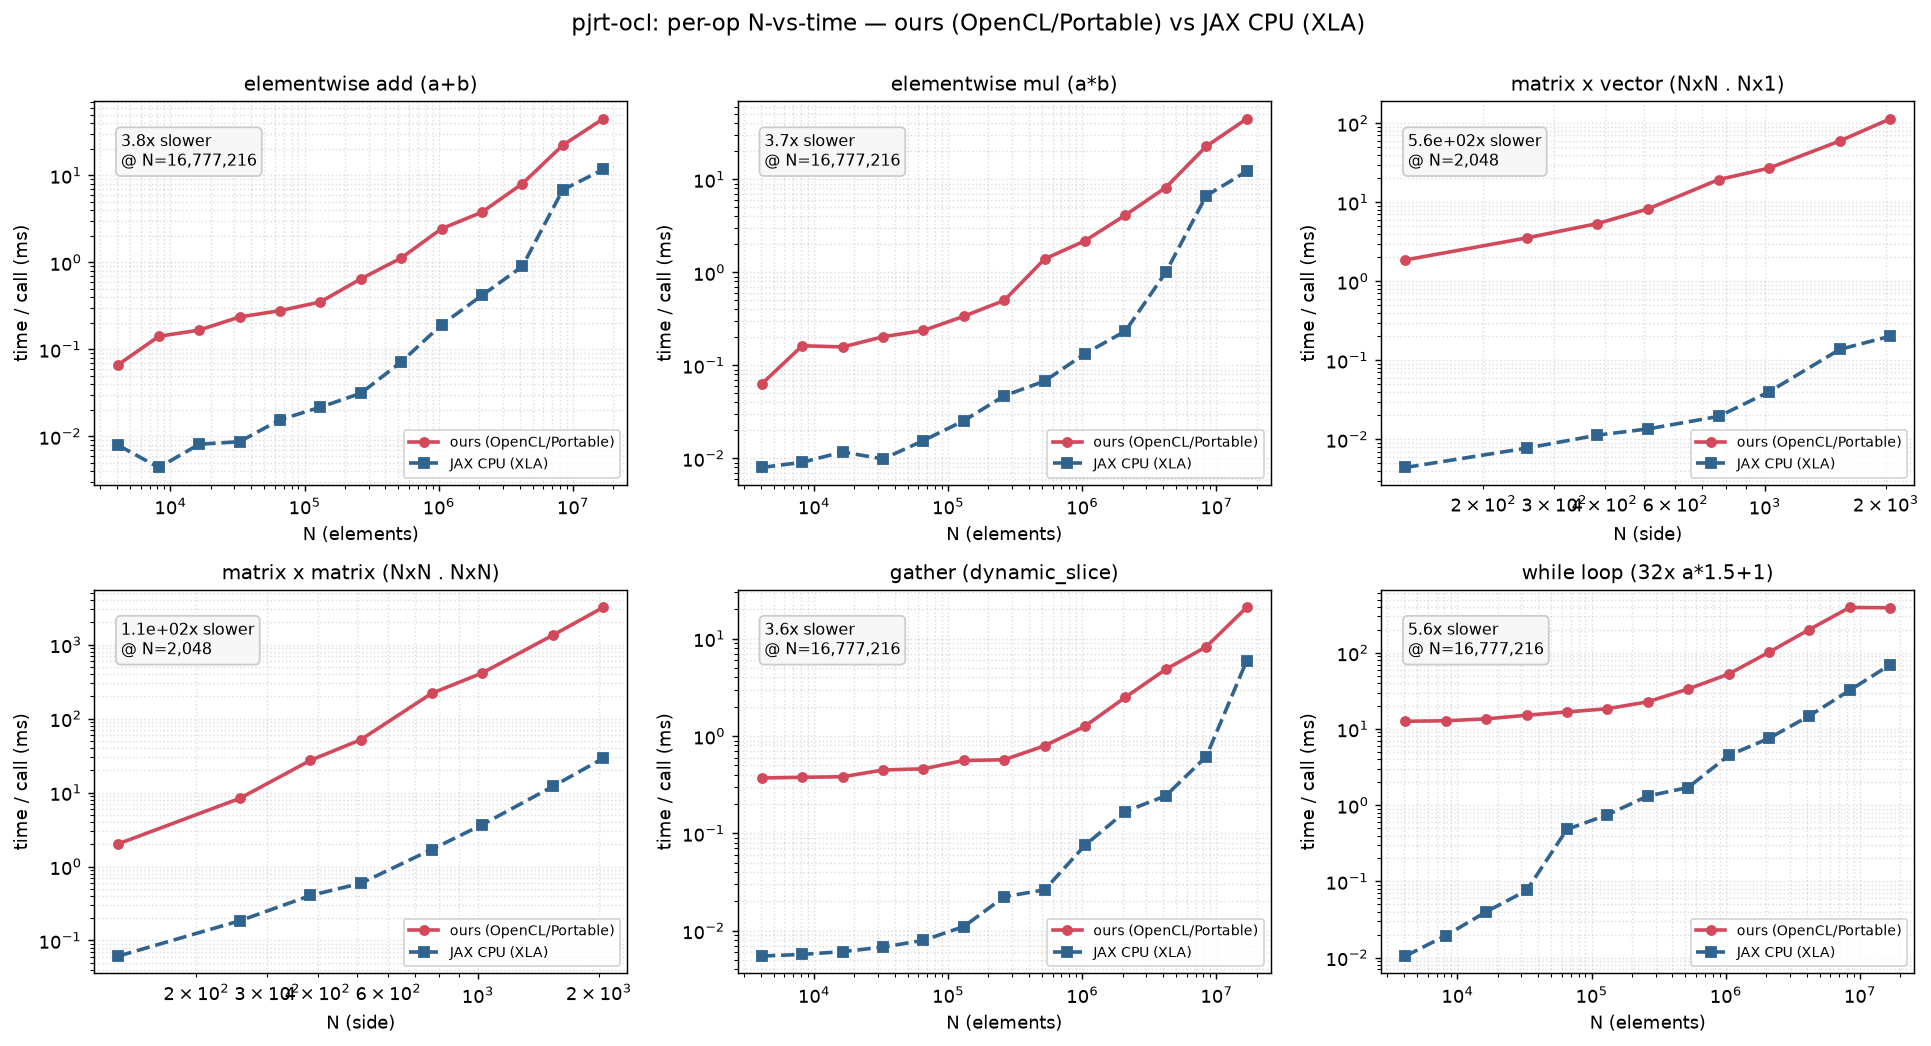
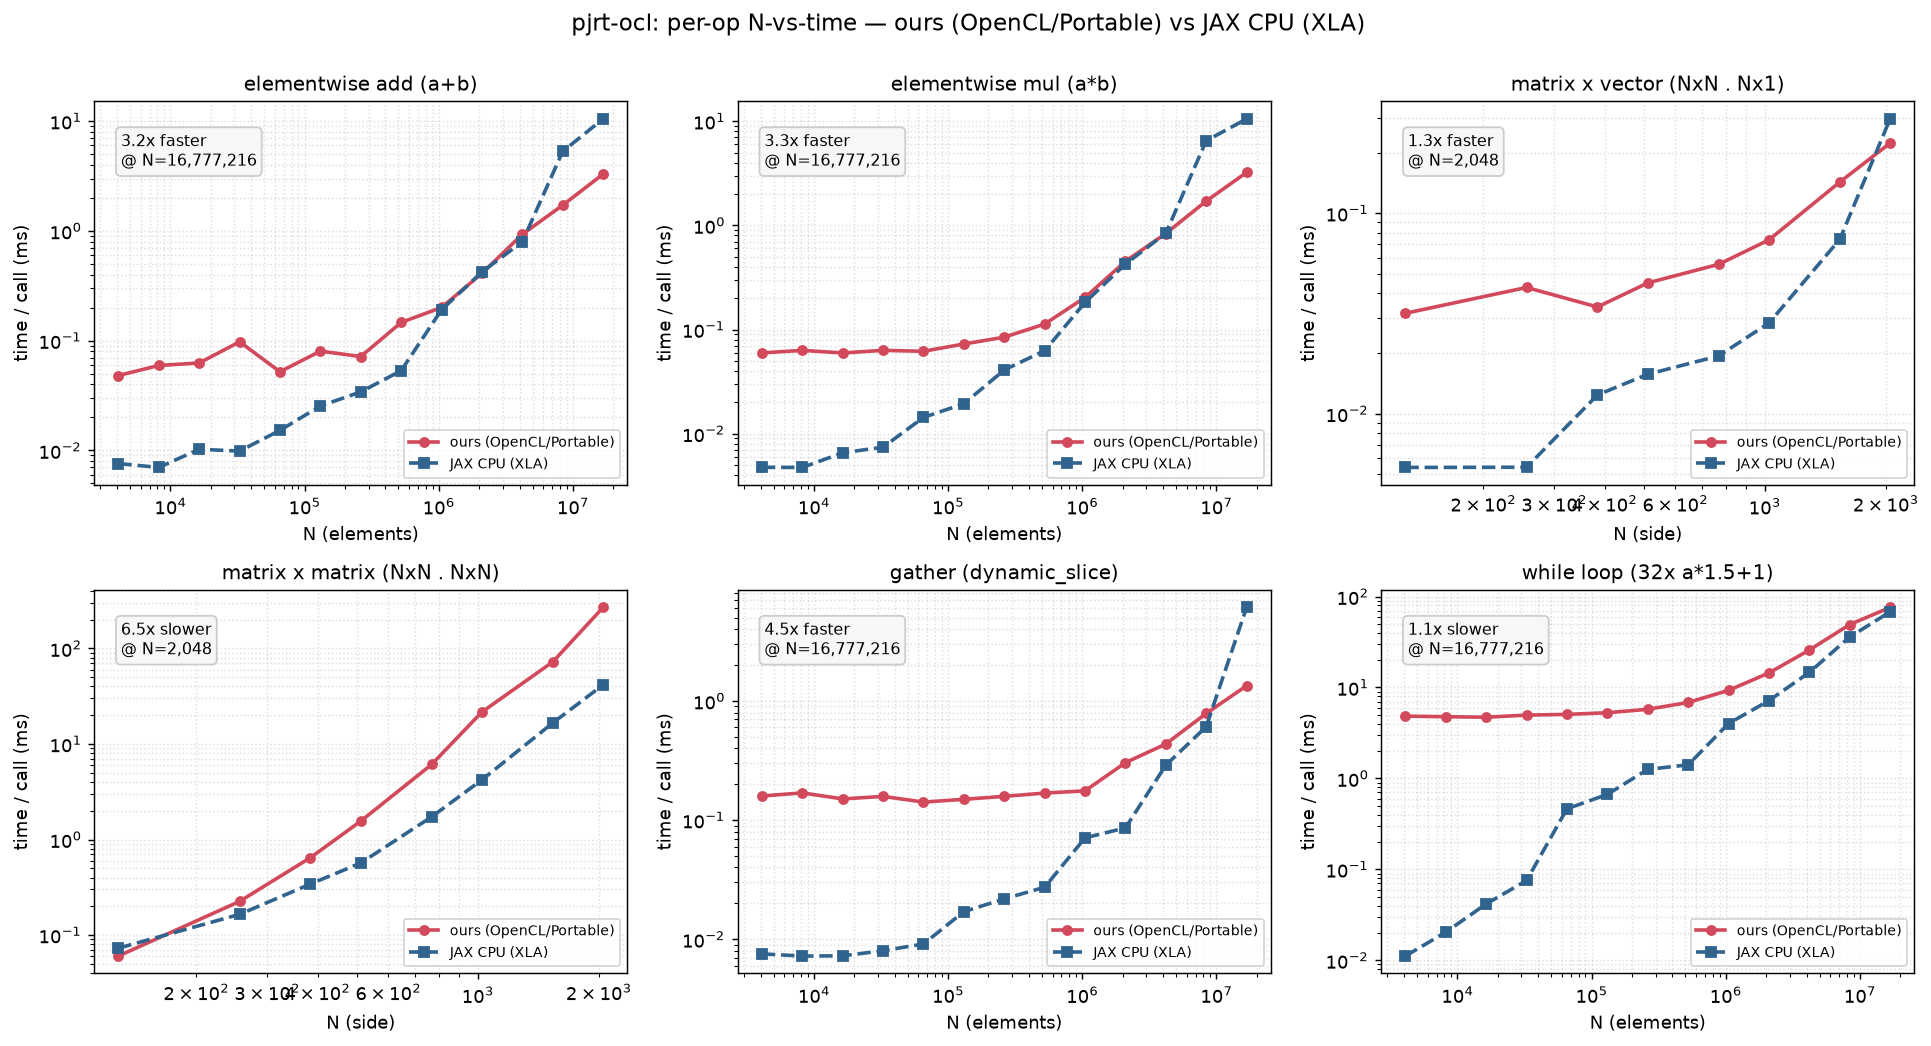
docs: re-bench both backends after CPU perf work; refresh hardware section
PoCL vs native XLA CPU at 16M: elementwise 3.2x FASTER, dynamic_slice 4.5x
faster, while/matvec parity; matmul 6.5x behind (was 88x). CPU-vs-GPU
subsection updated: backends converge on streaming (iGPU ~1.7x), matmul
still 18x GPU. Xe2 subsection: gemv parity for matvec, updated crossovers.

diff --git a/README.md b/README.md
@@ -190,19 +190,19 @@ it's the alternative you'd actually use.
 ![ours (OpenCL/Xe2) vs JAX CPU, per-op N-vs-time](docs/bench_plot_xe2.png)
 
 - **Large arrays are where the iGPU pays off, and the gap grows with N**:
-  elementwise and `gather` at 16M run **~8–9x faster** than XLA CPU
+  elementwise and `gather` at 16M run **~6–8x faster** than XLA CPU
   (~100 GB/s effective — the zero-copy I/O ports matter doubly on an
   integrated GPU, where "device memory" is the same LPDDR5X). Crossover vs
-  XLA CPU: ~512K–1M elements for elementwise, ~4M for `gather`, ~64K for the
-  `while` loop. `dot_general` is faster at *every* size — ~1.1 TFLOP/s at
-  2048³ via the standalone SGEMM path, ~2.4x XLA CPU.
+  XLA CPU: ~2M elements for elementwise, ~4M for `gather`, ~256K for the
+  `while` loop. `dot_general` is faster from N≈256 up — ~1.1 TFLOP/s at
+  2048³ via the standalone SGEMM path, ~2.8x XLA CPU. `matrix × vector` is
+  at parity at 2048 via the dedicated `gemv` kernel.
 - **`while` loops**: ~23 µs/iteration overhead at small N (the affine-fold +
-  in-place-carry + barrier-spin fixes cut it ~5x), and 1.7x *faster* than XLA
+  in-place-carry + barrier-spin fixes cut it ~5x), and 1.6x *faster* than XLA
   CPU at 16M.
 - **Small ops are dispatch-bound** (~70–160 µs wall-clock vs XLA CPU's
-  ~10–30 µs): expect 2–10x slower below ~256K elements; batch or fuse small
-  work. `matrix × vector` stays memory-bound through the MMA tile kernel
-  (1.3–11x slower; a dedicated GEMV kernel is the known fix, same as NVIDIA).
+  ~10–30 µs): expect 2–6x slower below ~1M elements; batch or fuse small
+  work.
 - Bring-up found and fixed a real portability bug: lane count is now *measured*
   at init (occupancy discovery, `docs/decisions.md` §9) instead of derived from
   the vendor-ambiguous `CL_DEVICE_MAX_COMPUTE_UNITS`.
@@ -215,13 +215,21 @@ same 8 cores. It answers "what does the OpenCL detour cost on a CPU?" —
 
 ![ours (OpenCL/PoCL) vs JAX native CPU, per-op N-vs-time](docs/bench_plot_pocl.png)
 
-- **PoCL is the project's debug backend, not a performance target**: printf,
-  host debuggers, and sanitizers work there, which is why it exists in the
-  matrix. Numbers reflect that: elementwise ~2.6x slower than XLA CPU at 16M,
-  `while` ~5x, and naive-tile `dot_general` ~90x off XLA's vectorized matmul
-  at 2048³.
-- If your machine has *any* supported GPU — including an iGPU — use it
-  (see below). Choose PoCL for bring-up, debugging, and CI-without-GPU.
+- **PoCL started as the debug backend and is now genuinely fast on streaming
+  ops.** CPU OpenCL runtimes only auto-vectorize the implicit work-item loop,
+  which our in-kernel tile loops defeated — every hot tile body now has an
+  explicit-`float8` CPU variant selected by a device-keyed build define
+  (`poc/09-cpu-kernels`, `docs/decisions.md` §11). Result: at 16M elements
+  our OpenCL-on-CPU is **3.2x faster than native XLA CPU** on elementwise
+  (3.2 vs 10.5 ms, ~61 GB/s), **4.5x** on `dynamic_slice`, `while` and
+  `matvec` at parity.
+- **`dot_general` remains XLA's win** (~6.5x at 2048³: 77 GFLOP/s from the
+  barrier-free register-blocked kernel vs Eigen's ~600 — cache-blocking is
+  the known next rung, deliberately deferred). Below ~1M elements the ~17–50
+  µs PoCL launch floor keeps small ops 2–7x slower.
+- If your machine has *any* supported GPU — including an iGPU — prefer it
+  (see below). PoCL remains the bring-up/debug/CI backend: printf, host
+  debuggers, and sanitizers all work there.
 
 ### CPU vs GPU, same machine (Lunar Lake), both through pjrt-ocl
 
@@ -232,14 +240,15 @@ bytecode through this plugin
 
 ![ours Xe2 iGPU vs ours PoCL CPU, per-op N-vs-time](docs/bench_plot_lnl_xe2_vs_pocl.png)
 
-- The iGPU wins **everywhere except sub-64K elementwise**, where both are
-  dispatch-bound and tie: **~22–24x** on elementwise/`gather` at 16M, **~9x**
-  on the `while` loop, and **~200x** on `matmul`/`matvec` at 2048 (the CPU
-  runs the same naive tile kernels that the GPU parallelizes; XLA's own CPU
-  matmul is the fairer CPU baseline, see the PoCL section).
+- After the CPU kernel work, the two backends **converge on pure streaming**
+  (they share the same LPDDR5X): the iGPU leads ~1.7x on elementwise/`gather`
+  at 16M and ~1.8x on the `while` loop, and `matvec` is a tie. Compute
+  density still separates them: **~18x** on `matmul` at 2048³.
 - Practical guidance: on any machine with a working GPU ICD, the default
-  device selection (first GPU) is the right choice; select PoCL explicitly
-  (`PJRT_OCL_DEVICE=Portable`) only for debugging.
+  device selection (first GPU) is the right choice — it never loses, and wins
+  big on compute-dense programs. Select PoCL explicitly
+  (`PJRT_OCL_DEVICE=Portable`) for debugging (printf/sanitizers) or
+  CI-without-GPU.
 
 ## Inside the VM: scheduled vs. measured execution
 